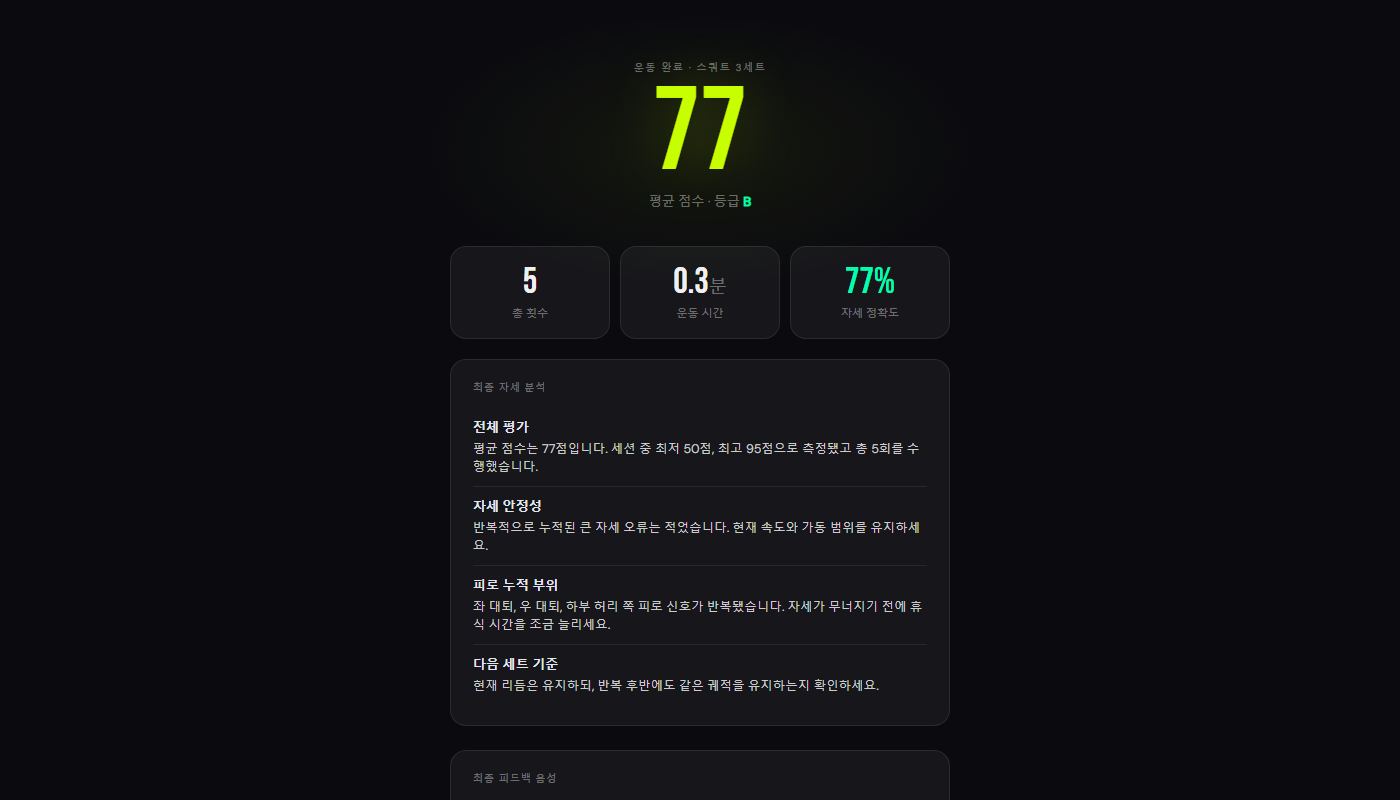
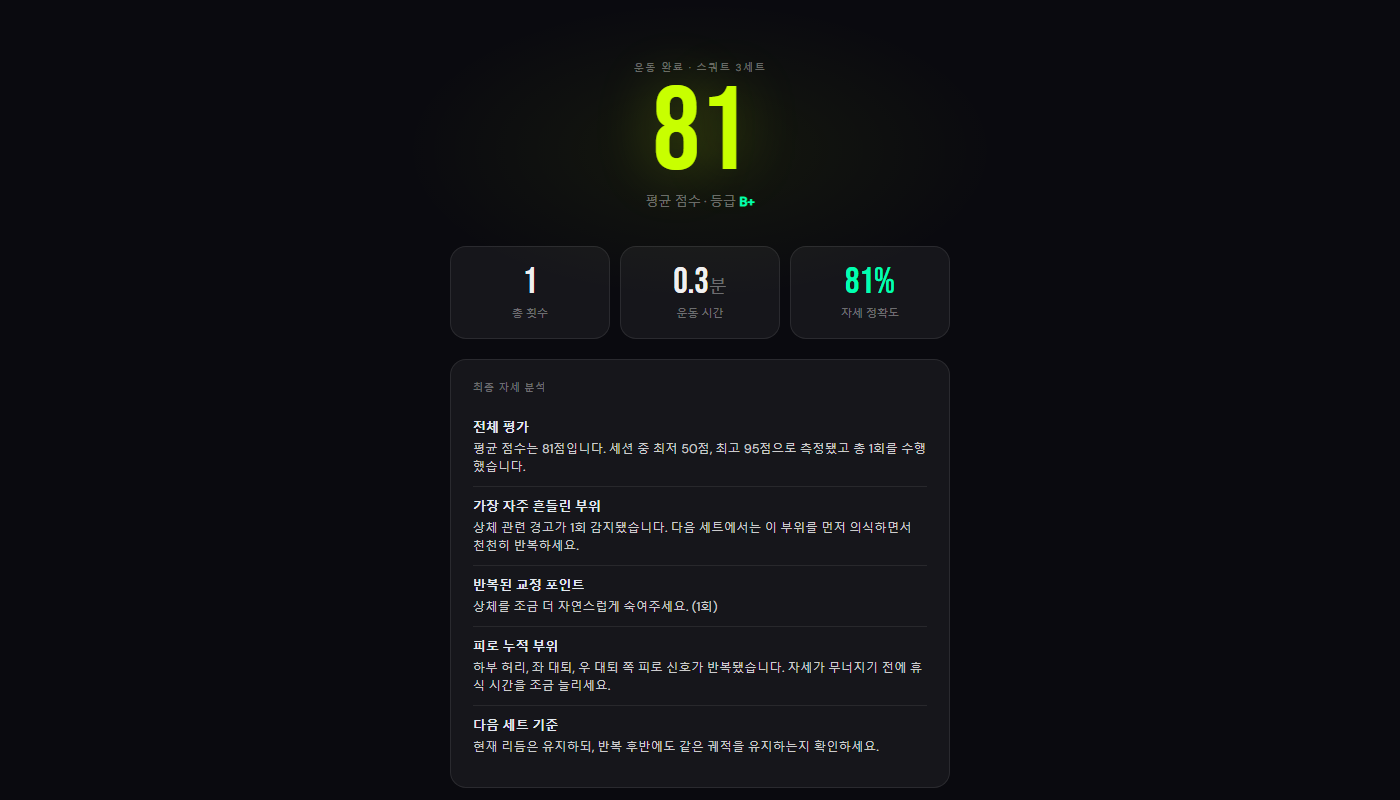
main README 정정: MPJPE 단위 cm, 스크린샷 DTW 재캡처, 흐름도 문구
- 리프터 val MPJPE 10.08 의 단위는 cm (라벨 Y-up·cm 확인) — 경고 블록 추가
- 서버의 strict=False 로드가 파라미터 0/18 을 바꿨다는 재확인 반영
- 4월 2D 뷰어의 점수는 플레이스홀더였음을 캡션에 명시, "119 FPS" 는 표시값으로 정정
- 최종 앱 스크린샷을 dtaidistance(DTW) 설치 후 다시 캡처 (점수 83 / 결과 81 B+)
- 흐름도: 폰 전송 ≈15fps(66 ms), 장비도: 폰 카메라는 HTTPS 필요 — SVG 수정·재렌더
- 종목별 반복 신호를 코드(rep_rules.py)대로 관절 각도 임계값으로 정정

diff --git a/README.md b/README.md
@@ -59,7 +59,7 @@
 - **2D 관절점 17개만으로 끝까지 간 최종 앱.** 서버에 GPU 도 3D 모델도 없다. 포즈 추정은 스마트폰 브라우저(TF.js MoveNet)가 하고, 서버는 CPU 에서 relay·정규화·횟수·DTW·피드백·TTS 만 한다. 세 기계가 전부 브라우저로 붙는다.
 - **두 경로 분리 아키텍처.** 서버가 프레임을 받자마자 `pose` 로 중계하고, 채점은 최신 프레임만 따로 처리한다(오래된 프레임 드롭). 로컬 실측 **relay 4.2 ms · processed 9.5 ms** — 채점을 붙여도 +5 ms. 같은 경로를 Cloudflare 로 보내면 201 / 206 ms 라 **병목은 백엔드가 아니라 네트워크**임을 수치로 갈랐다.
 - **3D 아바타 경로를 두 번 시도하고 원인을 특정해 배제했다.** Unity SMPL-X(4월)는 Unity 에디터 + SMPL-X 최적화 서버 동시 실행 시 RAM 93~98% 로 멈췄고, Three.js SMPL-X(6월)는 ①배포 체크포인트가 SMPL-X 회전이 아니라 3D 좌표를 내는 모델이었고 ②학습 데이터에 SMPL-X 정답 라벨이 없으며 ③학습·추론 카메라 도메인이 달라 전신이 25~50° 기울었다. 세 가지가 한 로그에 기록돼 있다.
-- **2D→3D 리프터를 직접 학습했다.** AI허브 피트니스 자세 17,105 / 9,010 샘플, 4층 512-dim MLP, **val MPJPE 10.08**(285 epoch). 정확한 3D 좌표가 곧 쓸 수 있는 아바타는 아니라는 교훈이 여기서 나왔다.
+- **2D→3D 리프터를 직접 학습했다.** AI허브 피트니스 자세 17,105 / 9,010 샘플, 4층 512-dim MLP, **val MPJPE 10.08 cm**(285 epoch — 라벨이 cm 단위라 예전 문서의 "mm" 는 오기). 관절당 10 cm 오차는 아바타를 세우기엔 거칠었고, 더구나 서버는 이 가중치를 실제로는 한 번도 싣지 못하고 있었다(1부).
 - **횟수·피드백은 문장이 아니라 신호 규칙이다.** 종목별 **관절 각도 한 개**로 반복을 센다(스쿼트는 엉덩이-무릎-발목 각도가 155° → 125° → 150° 를 지나면 1회). 피드백은 hold 정책으로 한 구간에 한 번만, 카메라 가시성 게이트(conf ≥ 0.12)를 못 넘으면 점수·횟수가 움직이지 않는다. 세트 × 횟수가 차면 서버가 세션을 끝낸다.
 - **clone 하나로 돈다.** `App` 브랜치를 받아 `final/scripts/00_pipeline.ps1 -Install` 한 줄이면 설치·검증·React 빌드·서버까지 간다. 57 커밋 · 14 브랜치 이력은 `archive/*` 태그로 전부 보존했다.
 
@@ -67,19 +67,19 @@
 
 ### 시연 미리보기
 
-**최종 앱 (App 브랜치, 2026-10-12 캡처)** — Quest 3 브라우저에 뜨는 화면 세 장. 전문가 스쿼트 256 프레임을 사용자 입력으로 흘려 넣어 찍었다.
+**최종 앱 (App 브랜치, 2026-10-12 캡처)** — Quest 3 브라우저에 뜨는 화면 세 장. `App` 브랜치를 그대로 띄우고(DTW 포함) 전문가 스쿼트 256 프레임을 사용자 입력으로 30fps 로 흘려 넣어 Playwright 로 찍었다.
 
 | 운동 선택 | 운동 중 | 결과 |
 |---|---|---|
 | ![운동 선택](assets/app_select_20261012.png) | ![운동 중](assets/app_workout_20261012.png) | ![결과](assets/app_result_20261012.png) |
-| 4종목(SQ·HC·LR·PU) · 세트 수 · 세트당 횟수 → 서버에 `session_config` 로 전송 | 왼쪽 **강사 모델**, 오른쪽 **내 자세**. 상단 HUD 에 TIME · SET 1/3 · REPS 3/8 · SCORE 95. 틀린 관절(하부 허리)은 **빨간 점**, 아래 칩에 "보통: 하부 허리" | 평균 점수·등급, 총 횟수·시간·정확도, **최종 자세 분석** 4항목(전체 평가·안정성·피로 누적 부위·다음 세트 기준), 아래에 TTS 음성 |
+| 4종목(SQ·HC·LR·PU) · 세트 수 · 세트당 횟수 → 서버에 `session_config` 로 전송 | 왼쪽 **강사 모델**, 오른쪽 **내 자세**. 상단 HUD 에 TIME · SET 1/3 · REPS 1/8 · SCORE 83. 틀린 관절(상체)은 **빨간 점·선**, 아래 칩에 교정 문장 "상체를 조금 더 자연스럽게 숙여주세요" | 평균 점수·등급(81 · B+), 총 횟수·시간·정확도, **최종 자세 분석** 5항목(전체 평가 · 가장 자주 흔들린 부위 · 반복된 교정 포인트 · 피로 누적 부위 · 다음 세트 기준), 아래에 TTS 음성 |
 
 **2D 전환점 (2026-04-29)** — Unity 를 빼고 브라우저 Canvas 로만 그린 첫 2D 뷰어. 전문가 포즈 · 실시간 피드백(점수 링, 근육 피로도) · 사용자 포즈 3패널. 왼쪽은 2배속 GIF, 오른쪽은 6월 8일 같은 뷰어의 119 FPS 화면.
 
 | 2D 뷰어 화면 녹화 (2배속) | 2D 뷰어 — 전문가 · 피드백 · 사용자 |
 |---|---|
 | ![2D 뷰어 녹화](assets/viewer2d_live_20260429.gif) | ![2D 뷰어 3패널](assets/viewer2d_three_panel_119fps_20260608.png) |
-| 점수 76 "주의: 부하 증가 중", 좌/우 대퇴 주황. 이 구조가 그대로 최종 앱의 좌우 패널이 됐다 | 상단 119 FPS · 0.0 ms. 근육 피로도 6부위, Frame cam_115 |
+| 점수 76 "주의: 부하 증가 중", 좌/우 대퇴 주황. 이 구조가 그대로 최종 앱의 좌우 패널이 됐다 (이 시점 서버 점수는 `75 + frame%20 − 10` 플레이스홀더였고, 실제 분석은 관절 각도 기반 근육 피로도뿐이다) | 상단 119 FPS · 0.0 ms 는 응답 간격 기반 표시값이지 처리량 측정이 아니다. 근육 피로도 6부위, Frame cam_115 |
 
 **3D 아바타 경로 ★중단 (2026-04 Unity → 2026-06 Three.js)** — 서버가 보낸 63+3 axis-angle 을 SMPL-X 아바타에 직접 매핑한 Unity 시연(2배속)과, 6월에 브라우저에서 다시 시도한 Three.js SMPL-X 비교 화면.
 
@@ -99,7 +99,7 @@
   <img src="assets/latency_local_vs_cloudflare.png" alt="WebSocket 왕복 지연 — 로컬 vs Cloudflare, relay vs processed" width="720">
 </p>
 
-미리보기 GIF 는 전부 2배속이다. 출처 — 2D 뷰어 녹화: `1차 2d 녹음.mp4`(04-29) · Unity 두 컷: `첫 아바타 녹음 실험.mp4`(04-12) · `카톡 좌표 기반 영상.mp4`(04-13) · 스크린샷 원본은 `Avatar3D` 브랜치 `docs/30_스크린샷/` 과 `Pose3D` 브랜치 `docs/50_스크린샷/` · 최종 앱 세 장은 `App` 브랜치의 `final/app_dist` 를 로컬 서버로 띄워 Playwright 로 캡처.
+미리보기 GIF 는 전부 2배속이다. 출처 — 2D 뷰어 녹화: `1차 2d 녹음.mp4`(04-29) · Unity 두 컷: `첫 아바타 녹음 실험.mp4`(04-12) · `카톡 좌표 기반 영상.mp4`(04-13) · 스크린샷 원본은 `Avatar3D` 브랜치 `docs/30_스크린샷/`(15장) 과 `Pose3D` 브랜치 `docs/50_스크린샷/` · 최종 앱 세 장은 `App` 브랜치의 `final/app_dist` 를 로컬 서버로 띄워 Playwright 로 캡처. [assets/](assets/) 에는 본문에 안 쓴 전체 해상도 컷([2D 뷰어 점수 68, 04-29](assets/viewer2d_score_20260429.png) · [3D 웹앱 랜딩, 06-08](assets/web3d_landing_psvr_20260608.png))도 있다.
 
 <br>
 
@@ -113,8 +113,8 @@
 
 | | 3D 아바타 경로 | 2D 관절점 경로 |
 |---|---|---|
-| 실시간성 | SMPL-X 최적화 ≈540 ms/프레임, MLP 로 바꿔도 Unity 동시 실행 시 OOM | 브라우저 Canvas 119 FPS, 서버 processed 9.5 ms |
-| 정확성 | 3D 좌표 MPJPE 10 mm 는 좋았으나 **SMPL-X 회전 파라미터로는 변환 불가**(정답 라벨 없음) | 전문가 포즈와 같은 2D 공간에서 DTW · 관절 각도 비교 — 변환 손실 없음 |
+| 실시간성 | SMPL-X 최적화 ≈540 ms/프레임, MLP 로 바꿔도 Unity 동시 실행 시 OOM | 서버 relay 4.2 ms · processed 9.5 ms (실측), 뷰어 표시 FPS 119(응답 간격 기반 표시값) |
+| 정확성 | 3D 좌표 val MPJPE ≈10 cm — 관절당 평균 10 cm 오차. 게다가 **SMPL-X 회전 파라미터로는 변환 불가**(정답 라벨 없음) | 전문가 포즈와 같은 2D 공간에서 DTW · 관절 각도 비교 — 변환 손실 없음 |
 | 피드백 | 아바타가 기울면 "어디가 틀렸는지"를 읽을 수 없다 | 틀린 관절을 **빨간 점**으로 바로 찍는다 |
 
 > [!IMPORTANT]
@@ -160,17 +160,20 @@
 
 [`Pose3D`](../../tree/Pose3D) 브랜치 `model_3d/`. 2D 키포인트(MoveNet 17관절)에서 SMPL-X 파라미터를 Adam 으로 직접 최적화하는 `OptimizationPoseFitter` 가 첫 경로였다. 동작은 했지만 프레임당 **≈540 ms** — 실시간은 불가능했다. 그래서 2D→3D 를 한 번에 회귀하는 `PoseLifterMLP`(4층, 512-dim, GELU+LayerNorm, MSE, AdamW)를 AI허브 **013 피트니스 자세** 데이터로 학습했다:
 
-| 런 | 데이터 | epoch | best val MPJPE | 최종 val MPJPE | train MPJPE | 비고 |
+| 런 | 데이터 | epoch | best val MPJPE (cm) | 최종 val MPJPE | train MPJPE | 비고 |
 |---|---|---|---|---|---|---|
 | `fitness_full` (배포) | 17,105 / 9,010 | 285 (early stop) | **10.08** @245 | 10.21 | 7.5 | ~17~22k samples/s, GPU |
-| `v3_pose3d` (06-08 재학습) | 같음 | 128 | 10.82 @123 | 11.10 | 9.2 | 3D 좌표 경로 재확인용 |
+| `v3_pose3d` (06-08 재학습) | 같음 | 128 | 10.82 @123 (저장된 체크포인트는 val loss 최저인 epoch 88, MPJPE 10.88) | 11.10 | 9.2 | 3D 좌표 경로 재확인용 |
 | `v2 smplx_lifter` (06-08) | 좌표 → 계층적 local 회전 근사 | 209 (best) | val_loss 0.08 | — | — | **추론 시 25~50° 기울어짐** |
 
 <p align="center">
   <img src="assets/lifter_training_curve_fitness_full.png" alt="PoseLifterMLP 학습 곡선 — fitness_full, 285 epoch" width="640">
 </p>
 
-리프터는 ~5 ms 로 빨랐고 좌표 정확도도 좋았다. 문제는 **출력이 17×3 좌표**라는 점이었는데, 이것이 두 달 뒤 Three.js 실패의 뿌리가 된다.
+> [!WARNING]
+> **MPJPE 의 단위는 cm 다.** 학습 라벨(AI허브 013 `-3d.json`)이 Y-up · cm(코 y ≈ 154, 엉덩이 y ≈ 94)이고 변환 없이 그대로 회귀했으므로, 4월 문서들의 "MPJPE 10.2 mm" 는 단위 오기다 (2026-10-12 라벨·체크포인트 출력으로 재확인). 관절당 평균 10 cm 는 "쓸 만한 3D 좌표" 라기엔 거친 값이다.
+
+리프터는 ~5 ms 로 빨랐다. 그러나 **출력이 17×3 좌표**라는 점, 그리고 서버가 그 가중치를 실제로 싣지도 못하고 있었다는 점이 두 달 뒤 Three.js 실패의 뿌리가 된다.
 
 #### 전환 1: Unity SMPL-X 아바타 (2026-04-11 ~ 29) — OOM
 
@@ -184,7 +187,7 @@
 
 | 층 | 무엇이 문제였나 | 어떻게 확인했나 |
 |---|---|---|
-| 체크포인트 | 배포 체크포인트는 `PoseLifterMLP`(17×3 → 17×3 **좌표**)인데 서버는 이를 `strict=False` 로 `PoseLifterNet`(17×3 → 66 **SMPL-X 파라미터**)에 올리고 있었다 | 출력을 global_orient 로 해석하면 항상 X축 −40° — 강제로 0 을 넣어야 섰다 |
+| 체크포인트 | 배포 체크포인트는 `PoseLifterMLP`(17×3 → 17×3 **좌표**, 마지막 층 51)인데 서버는 이를 `strict=False` 로 `PoseLifterNet`(17×3 → 66 **SMPL-X 파라미터**)에 올리고 있었다. 2026-10-12 재확인: 이 로드는 파라미터 18개 중 **0개**를 바꾼다 — "Weights loaded successfully" 를 찍고는 **초기화 가중치**로 돌고 있었다 | 출력을 global_orient 로 해석하면 항상 X축 −40° — 강제로 0 을 넣어야 섰다 |
 | 데이터 | 013 데이터셋엔 SMPL-X `body_pose` 정답이 없다. 3D 좌표에서 계층적 local 회전을 근사해 v2 를 재학습(val_loss 0.08)했지만 추론 시 25~50° 기울어짐 | 학습 카메라 5대 고정 vs 추론 카메라 상이 — 도메인 불일치 |
 | 구조 | 3D 좌표로 본을 직접 돌리는 방향 A 는 SMPL-X 가 **parent 기준 local 회전**이라 성립하지 않는다. `parent.getWorldQuaternion()` 이 Three.js SkinnedMesh 에서 프레임마다 전 프레임 값을 돌려준다 | 하체(무릎·고관절)만 부분 성공, 상체 붕괴 |
 
@@ -239,7 +242,7 @@
 |---|---|---|
 | 운동 분류 90% ↑ (LSTM·Transformer·ST-GCN) | 분류 모델 없음 — 사용자가 앱에서 종목을 고른다 | **미구현** (범위 축소) |
 | 자세 판단 85% ↑ | 점수·피드백은 작동하나 **정답 라벨 평가 없음** | 미측정 |
-| 60 FPS ↑ | 브라우저 뷰어 119 FPS(캔버스), 폰 MoveNet 은 기기 의존 | 캔버스 기준 달성, 추론 FPS 미측정 |
+| 60 FPS ↑ | 폰 → 서버 전송은 66 ms 간격(≈15 fps)으로 고정, 뷰어의 "119 FPS" 는 응답 간격 기반 표시값 | **미측정** (처리량 수치 없음) |
 | DTW 10 ms ↓ | processed 경로 전체 평균 9.5 ms (DTW 포함, interval) | **달성** |
 | 오류 → 음성 3초 ↓ | 세트 중 음성은 없음, 실시간은 화면 칩 · 음성은 종료 후 TTS | 설계 변경 |
 | LLM 피드백 5분 ↓ | LLM 대신 **결정적 최종 분석**(누적 피드백 집계) | 설계 변경 |
@@ -259,7 +262,7 @@ MediaPipe · MoveNet · MMPose 를 피트니스 데이터 부분집합에서 비
 | 세대 | 기간 | 무엇을 했나 | 왜 넘어갔나 |
 |---|---|---|---|
 | G1 SMPL-X 최적화 피팅 | 04-08 | 2D → SMPL-X 파라미터 Adam 최적화 (15 iter) | ≈540 ms/프레임, 실시간 불가 |
-| G2 MLP 리프터 | 04-09 | 2D → 3D 17관절 MLP, val MPJPE 10.08 | 정확하지만 출력이 **좌표** — SMPL-X 회전이 아님 (06-08 에야 확인) |
+| G2 MLP 리프터 | 04-09 | 2D → 3D 17관절 MLP, val MPJPE 10.08 cm | 출력이 **좌표**라 SMPL-X 회전이 아니고, 서버는 가중치를 싣지도 못했다 (06-08 에야 확인) |
 | G3 Unity SMPL-X 아바타 | 04-11 ~ 29 | 63+3 axis-angle 직접 매핑, Slerp, 좌표계 변환 | Unity + 서버 동시 실행 시 RAM 93~98% |
 | **G4 2D 웹 뷰어 ★전환점** | 04-29 | Unity 없이 Canvas 스켈레톤, OneEuro, Quest 브라우저 접속 | — 이후 모든 개발의 기반 |
 | G5 final/ 재편 | 05-21 ~ 23 | s01~s07 역할 분리, 전처리 통합, DTW 점수 | 매 프레임 DTW 가 FPS 를 깎음 → interval |
@@ -277,8 +280,9 @@ $R = "https://github.com/logan0741/VR-Based-Real-Time-Agent.git"
 git clone -b App $R vr-pt-app ; cd vr-pt-app
 Copy-Item .env.example .env                  # DB_ENABLED=false 기본, 키 없이 돈다
 .\final\scripts\00_pipeline.ps1 -Install     # pip + npm 설치 → py_compile 검증 → React 빌드 → 서버
-#   폰:   http://<PC_IP>:8000/viewer/   (카메라 허용)
 #   Quest: http://<PC_IP>:8000/app/     (종목·세트·횟수 → 운동 시작)
+#   폰:    https://viewer.<내 도메인>/viewer/  — 브라우저가 localhost 가 아닌 http 에서는 카메라를
+#          열어 주지 않으므로 폰은 Cloudflare 터널(HTTPS)로 붙인다 (App 브랜치 README §C)
 .\final\scripts\04_latency_check.ps1         # 지연 측정 → final/latency_lab/results/
 ```
 
